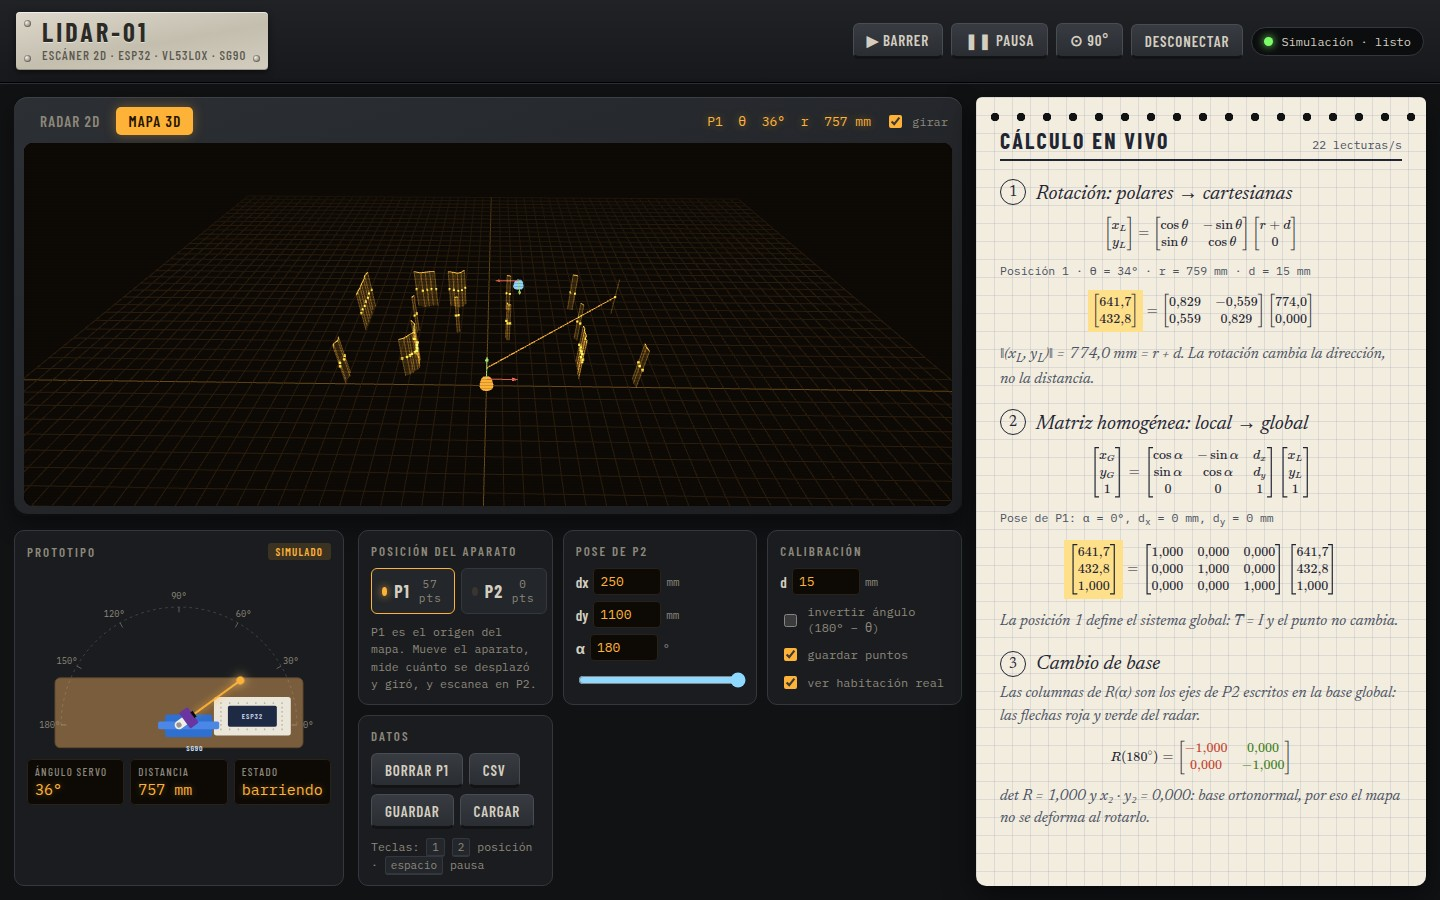
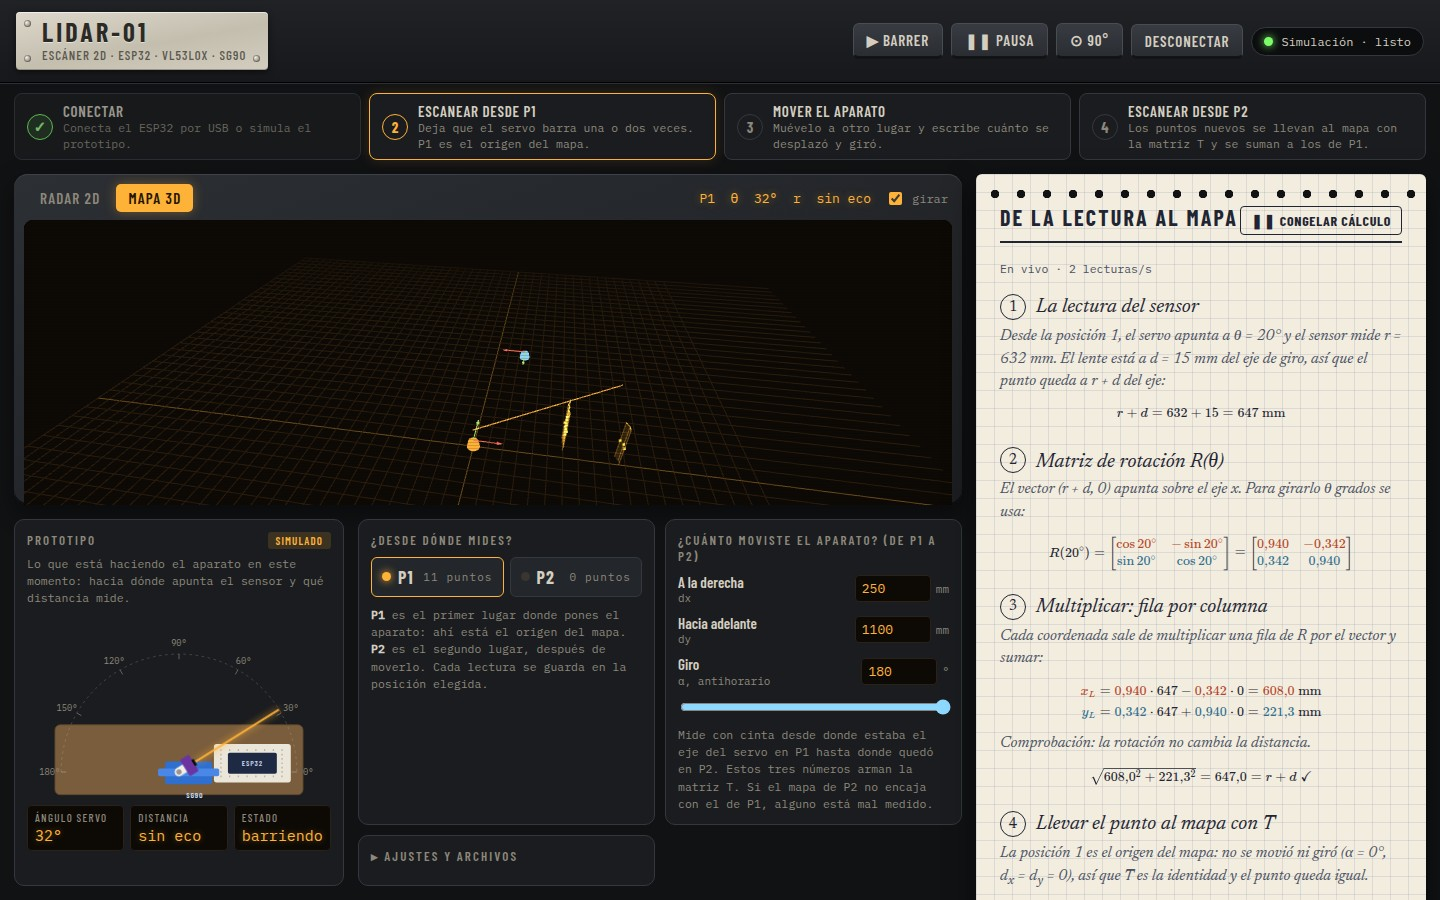
docs(informe): capturas y descripción de la interfaz nueva
- Figuras de la interfaz con la guía de pasos y el cuaderno desglosado
- Nueva figura del cuaderno con el cálculo de una lectura
- Metodología describe el puente USB, la guía, el cuaderno y el botón congelar

diff --git a/docs/secciones/metodologia.tex b/docs/secciones/metodologia.tex
@@ -136,23 +136,37 @@ cálculo, para que el código refleje las ecuaciones del marco teórico.
 \subsection{Interfaz web}
 
 La interfaz se construyó con React y TypeScript, se empaqueta con Bun y se
-ejecuta en el navegador, donde recibe los datos con la API Web Serial. Tiene
-una vista de radar 2D dibujada con Canvas y una vista 3D hecha con la
-biblioteca Three.js, en la que el mapa del plano se levanta en altura para
-facilitar su lectura. Esta vista 3D es una visualización: el sensor mide en un
-solo plano. Junto al mapa, un panel con forma de hoja de cuaderno muestra,
-escrita con KaTeX, la multiplicación de matrices de la lectura más reciente con
-sus valores numéricos, la matriz homogénea de la posición activa y las columnas
-de $R(\alpha)$ como ejes de la segunda posición. Al modificar $d_x$, $d_y$ o
-$\alpha$, el mapa se recalcula al instante, lo que permite ver cómo una pose mal
-medida desarma el mapa.
+ejecuta en el navegador. Recibe los datos del ESP32 a través de un puente USB
+(\texttt{web/puente.ts}) que reenvía cada línea del puerto serie por WebSocket,
+lo que permite usarla en cualquier navegador; si el puente no está activo,
+usa la API Web Serial de Chrome. Está organizada para que quien la mira sepa
+qué se está calculando y por qué:
 
-Un panel adicional dibuja el prototipo en vista superior: el servo, el sensor y
-el haz giran con cada lectura. Con el ESP32 conectado refleja lo que hace el
-aparato real; con el botón \textit{Simular prototipo}, la interfaz usa el
-simulador descrito en el protocolo experimental y superpone en el radar la
-habitación real, para comparar lo que mide el escáner con lo que debería medir.
-El código del proyecto (firmware, interfaz, pruebas y este informe) está en
+\begin{itemize}
+\item Una guía de cuatro pasos en la parte superior (conectar, escanear desde
+la posición 1, mover el aparato y escanear desde la posición 2) que se marca
+sola a medida que se completa cada paso.
+\item El radar 2D, dibujado con Canvas, con escala de 30~cm, 60~cm o 1,2~m, y
+una vista 3D hecha con Three.js en la que el mapa del plano se levanta en
+altura para facilitar su lectura. Esta vista 3D es una visualización: el
+sensor mide en un solo plano.
+\item Un panel del prototipo que dibuja en vista superior el servo, el sensor y
+el haz, y gira con cada lectura.
+\item Un panel donde se indica desde qué posición se mide y cuánto se movió el
+aparato entre las dos posiciones ($d_x$, $d_y$ y $\alpha$). Esos tres números
+forman la matriz $T$; al cambiarlos, el mapa se recalcula al instante, lo que
+permite ver cómo una pose mal medida desarma el mapa.
+\item Un cuaderno, escrito con KaTeX, que desglosa el cálculo de una lectura en
+cinco pasos: la suma $r+d$, la matriz $R(\theta)$ con sus valores, el producto
+fila por columna con la comprobación de la norma, el producto por $T$ y el
+punto resultante. Un botón permite congelar el cálculo en una lectura para
+explicarla con calma; esa lectura queda marcada en el radar.
+\end{itemize}
+
+Con el botón \textit{Simular prototipo}, la interfaz usa el simulador descrito
+en el protocolo experimental y superpone en el radar la habitación real, para
+comparar lo que mide el escáner con lo que debería medir. El código del
+proyecto (firmware, interfaz, pruebas y este informe) está en
 \url{https://github.com/ownerng/algebra-2-26}.
 
 \subsection{Protocolo experimental}

diff --git a/docs/secciones/resultados.tex b/docs/secciones/resultados.tex
@@ -82,26 +82,39 @@ se ejecutaron sin fallos.
 \subsection{Interfaz web}
 
 La Figura~\ref{fig:interfaz} muestra la interfaz durante una simulación en la
-que ya se escaneó desde las dos posiciones. Los puntos ámbar son los de la
-posición 1, los celestes los de la posición 2, y las líneas punteadas, la
-habitación real del simulador. El cuaderno de la derecha presenta los dos
-productos matriciales de la lectura actual, tomada desde la posición 2 con
-$\theta=52^\circ$, $r=715$ mm y $d=15$ mm. El primer producto da el punto
-local $(449{,}4;\;575{,}2)$ mm, cuya norma es $730$ mm $= r+d$, como predice la
-ecuación~\eqref{eq:norma}. El segundo lo lleva al mapa global: con
-$\alpha=180^\circ$, $d_x=250$ mm y $d_y=1100$ mm, el punto queda en
-$(-199{,}4;\;524{,}8)$ mm, junto a los puntos medidos desde la posición 1. El
-panel inferior izquierdo dibuja el prototipo con el servo en el ángulo de la
-lectura.
+que ya se escaneó desde las dos posiciones: la guía marca los cuatro pasos
+como completos, los puntos ámbar son los de la posición 1, los celestes los de
+la posición 2 y las líneas punteadas, la habitación real del simulador. El
+cálculo está congelado en una lectura tomada desde la posición 2, marcada en el
+radar con un círculo.
+
+La Figura~\ref{fig:cuaderno} muestra el cuaderno completo para esa lectura.
+Con $\theta=12^\circ$, $r=1173$ mm y $d=15$ mm se tiene $r+d=1188$ mm. El
+producto por $R(12^\circ)$ da el punto local $(1162{,}0;\;247{,}0)$ mm, cuya
+norma vuelve a ser $1188$ mm, como predice la ecuación~\eqref{eq:norma}. El
+producto por $T$, con $\alpha=180^\circ$, $d_x=250$ mm y $d_y=1100$ mm, lleva el
+punto al mapa global en $(-912{,}0;\;853{,}0)$ mm. Cada fila de las matrices y
+la coordenada que produce tienen el mismo color, para seguir el producto fila
+por columna. La Figura~\ref{fig:interfaz-3d} muestra la vista 3D del mismo
+mapa.
 
 \begin{figure}[htbp]
-\caption{Interfaz web: radar 2D, prototipo simulado y cuaderno de cálculo}
+\caption{Interfaz web: guía de pasos, radar, prototipo, mandos y cuaderno}
 \label{fig:interfaz}
 \centering
 \includegraphics[width=\linewidth]{interfaz_2d.jpg}
 \figurenote{Las flechas roja y verde en cada posición son las columnas de
 $R(\alpha)$, es decir, los ejes locales vistos en la base global. Captura del
 modo de simulación. Elaboración propia.}
+\end{figure}
+
+\begin{figure}[htbp]
+\caption{Cuaderno de la interfaz: cálculo desglosado de una lectura}
+\label{fig:cuaderno}
+\centering
+\includegraphics[width=0.48\linewidth]{interfaz_cuaderno.png}
+\figurenote{Lectura congelada desde la posición 2, en modo de simulación.
+Elaboración propia.}
 \end{figure}
 
 \begin{figure}[htbp]

diff --git a/docs/secciones/conclusiones.tex b/docs/secciones/conclusiones.tex
@@ -15,8 +15,9 @@ verificaron numéricamente: el determinante, la ortogonalidad, la conservación
 de la norma y la inversa homogénea se cumplen con desviaciones de entre
 $10^{-16}$ y $10^{-13}$, propias del redondeo en aritmética de doble precisión.
 
-La interfaz web dibuja el mapa en tiempo real en 2D y 3D y muestra, para cada
-lectura, los productos matriciales con sus valores numéricos. Permite además
+La interfaz web dibuja el mapa en tiempo real en 2D y 3D y desglosa, para cada
+lectura, los productos matriciales fila por columna con sus valores numéricos;
+el cálculo puede congelarse en una lectura para explicarlo. Permite además
 modificar la pose de la segunda posición y observar de inmediato su efecto en
 el mapa fusionado.
 
